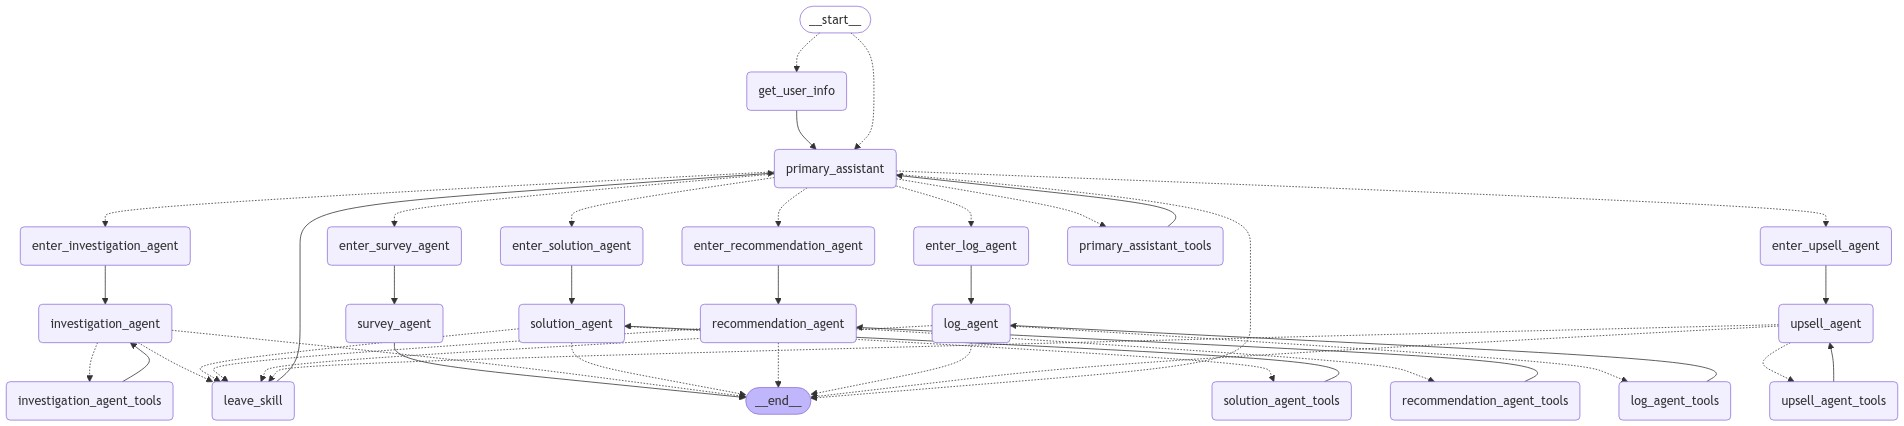
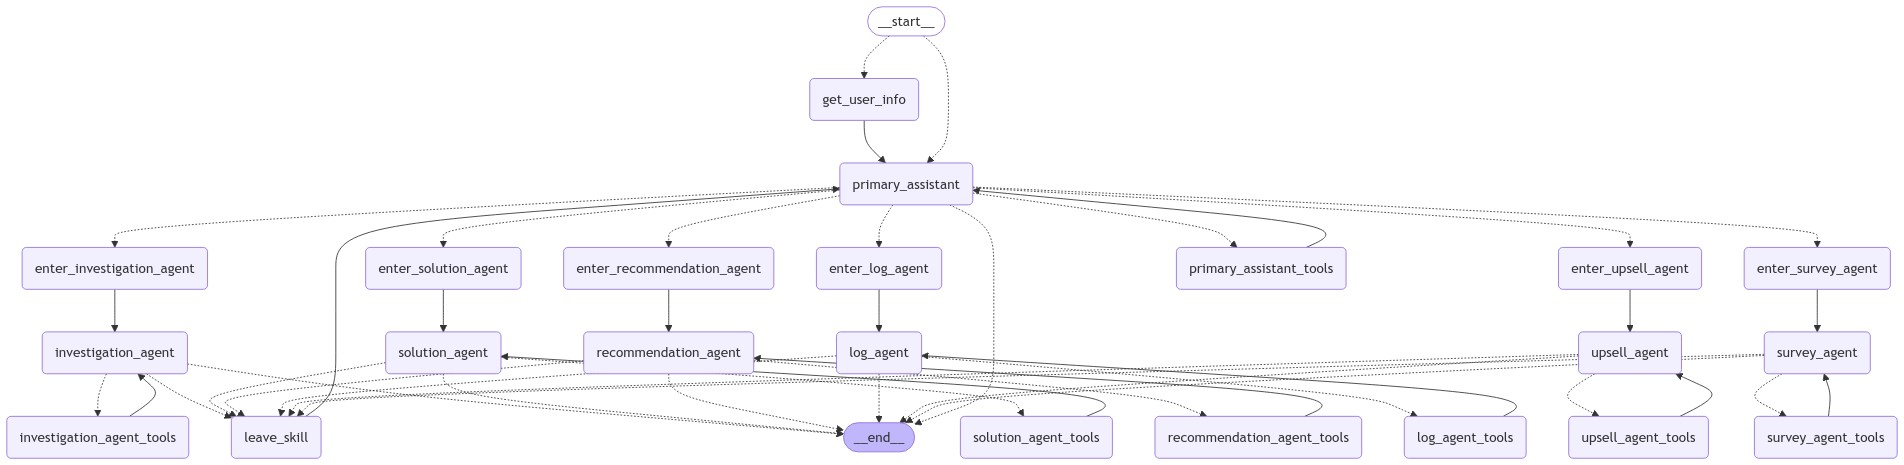
feat: add survey tools

diff --git a/tools/tools.py b/tools/tools.py
@@ -2,16 +2,29 @@ import os
 import base64
 import json
 import requests
+from pydantic import BaseModel, Field
+
 from langchain_core.tools import tool
 from langchain_core.messages.ai import AIMessage
 from langchain_core.messages import ToolMessage
-from langchain_core.runnables import RunnableLambda, RunnableConfig
+from langchain_core.runnables import RunnableLambda
 from langgraph.prebuilt import ToolNode
 
 from config import set_customer_id, get_customer_id
-from states.state import State
-from server.database import add_feedback
 
+
+# Base Classes
+
+
+class FeedbackInput(BaseModel):
+    query: str = Field(..., title="The query for the feedback")
+    rating: int = Field(..., title="The user's rating")
+    feedback: str = Field(..., title="The user's feedback")
+    organization_id: str = Field(..., title="The organization id")
+    user_email: str = Field(..., title="The user's email")
+
+
+# Headers
 
 # RAG_API_URL = "https://chat-backend.instwise.app/api/assistant/ask"
 RAG_API_URL = "https://chat-backend.instwise.app/api/assistant/ask"
@@ -297,7 +310,11 @@ def personalized_follow_up() -> AIMessage:
 
 @tool
 def collect_feedback(
-    query: str, rating: int, user_email: str, organization_id: str, customer_id: str
+    query: str,
+    rating: int,
+    feedback: str,
+    organization_id: str,
+    user_email: str,
 ) -> AIMessage:
     """
     Record's user's feedback to the database.
@@ -308,7 +325,6 @@ def collect_feedback(
         feedback (str): The user's feedback.
         user_email (str): The user's email.
         organization_id (str): The organization id.
-        customer_id (str): The customer id
 
     Returns:
         AIMessage: A message confirming the feedback has been collected.
@@ -316,17 +332,23 @@ def collect_feedback(
     feedback_data = {
         "query": query,
         "rating": rating,
-        "customer_id": customer_id,
+        "feedback": feedback,
         "organization_id": organization_id,
         "user_email": user_email,
     }
 
     # API call to add feedback to the database
+    try:
+        response = requests.post(
+            "https://api-assistant.instwise.app/api/v1/feedback/survey",
+            json=feedback_data,
+        )
+        response.raise_for_status()
+        print(response.json())
+        return AIMessage("Your feedback has been recorded.")
+    except requests.exceptions.RequestException as e:
+        return AIMessage(f"An error occurred while recording your feedback: {e}")
 
-    return AIMessage("Thank you for your feedback.")
-
-
-# utility functions
 
 
 def handle_tool_error(state) -> dict:

diff --git a/prompts/prompts_local.py b/prompts/prompts_local.py
@@ -62,13 +62,11 @@ Please provide the response in plain text, without any Markdown or formatting.
         "survey_prompt": """
 You are the Survey Agent responsible for collecting user feedback after an interaction that will help improve future support interactions.
 The primary assistant delegates work to you whenever the user completes a support session. Your tasks include:
-Asking the user to rate their experience on a scale of 1 to 10.
+Asking the user to rate their experience on a scale of 1 to 10 and their feedback on the support session.
 Prompting the user for additional comments or the reason behind their rating.
-Logging the feedback into the system for analysis.
-Once the survey is complete, signal the Primary Assistant to continue the conversation with the user.
+Collect the user's feedback using collect_feedback and log it in the system for future reference using the user_info: {user_info}.
+Only after you collect the feedback, signal the Primary Assistant to continue the conversation with the user.
 The user is NOT AWARE of the different specialized assistants, so do not mention them; just quietly delegate through function calls.
-Please provide the response in plain text, without any Markdown or formatting.
-When user gives you the feedback, use the collect_feedback tool to collect feedback.,
 """,
         "log_prompt": """
 You are the Log Agent responsible for documenting interactions and escalating unresolved issues.
